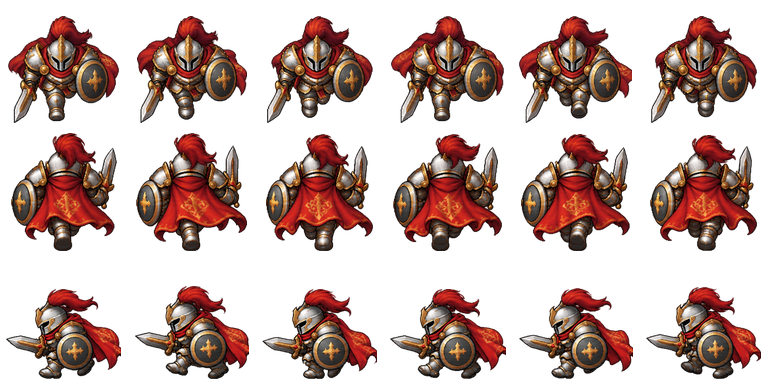
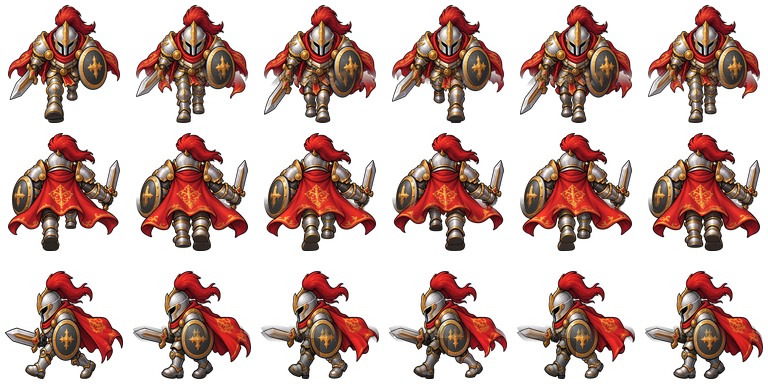
5스테이지 보스 변경

diff --git a/src/styles/rogueTd.css b/src/styles/rogueTd.css
@@ -352,8 +352,7 @@ body {
   transform: translateY(-40%);
 }
 
-/* Stage 5 uses a purpose-built directional sheet. The generated poses do not
-   form a continuous gait, so each direction keeps its stable first pose. */
+/* Stage 5 keeps one stable pose per direction until its walk art is finalized. */
 .monsterSprite.bossStage05Sprite {
   background-size: 600% 300%;
   animation: none;
@@ -364,19 +363,19 @@ body {
 .monsterSprite.bossStage05Sprite.move-left,
 .monsterSprite.bossStage05Sprite.move-right { --boss-stage05-row: 100%; }
 .monsterSprite.bossStage05Sprite.move-down {
-  transform: translateY(-40%) scale(1.04);
+  transform: translateY(-40%) scale(1.08);
   transform-origin: center bottom;
 }
 .monsterSprite.bossStage05Sprite.move-up {
-  transform: translateY(-40%) scale(0.97);
+  transform: translateY(-40%) scale(1.08);
   transform-origin: center bottom;
 }
 .monsterSprite.bossStage05Sprite.move-left {
-  transform: translateY(-40%) scale(1.14);
+  transform: translateY(-40%) scale(1.08);
   transform-origin: center bottom;
 }
 .monsterSprite.bossStage05Sprite.move-right {
-  transform: translateY(-40%) scale(-1.14, 1.14);
+  transform: translateY(-40%) scale(-1.08, 1.08);
   transform-origin: center bottom;
 }
 

diff --git a/scripts/build_stage05_walk_sprite.py b/scripts/build_stage05_walk_sprite.py
@@ -10,13 +10,44 @@ from PIL import Image
 ROOT = Path(__file__).resolve().parents[1]
 SOURCE_DIR = ROOT / "art_sources" / "images"
 OUTPUT = ROOT / "src" / "images" / "boss-stage05-walk.png"
-SOURCES = (
-    "boss_stage05_down.png",
-    "boss_stage05_up.png",
-    "boss_stage05_left.png",
+ROWS = (
+    (
+        "poses",
+        (
+            "boss_stage05_down_right_max.png",
+            "boss_stage05_down_right_mid.png",
+            "boss_stage05_down_left_mid.png",
+            "boss_stage05_down_left_max.png",
+            "boss_stage05_down_left_mid.png",
+            "boss_stage05_down_right_mid.png",
+        ),
+    ),
+    (
+        "poses",
+        (
+            "boss_stage05_up_right_max.png",
+            "boss_stage05_up_right_mid.png",
+            "boss_stage05_up_left_mid.png",
+            "boss_stage05_up_left_max.png",
+            "boss_stage05_up_left_mid.png",
+            "boss_stage05_up_right_mid.png",
+        ),
+    ),
+    (
+        "poses",
+        (
+            "boss_stage05_left_right_max.png",
+            "boss_stage05_left_right_mid.png",
+            "boss_stage05_left_left_mid.png",
+            "boss_stage05_left_left_max.png",
+            "boss_stage05_left_left_mid.png",
+            "boss_stage05_left_right_mid.png",
+        ),
+    ),
 )
 FRAME_SIZE = 128
 FRAME_COUNT = 6
+ROW_TARGET_SIZES = ((112, 118), (112, 118), (118, 108))
 
 
 def alpha_bbox(image: Image.Image) -> tuple[int, int, int, int]:
@@ -60,46 +91,95 @@ def keep_largest_alpha_component(image: Image.Image) -> Image.Image:
     return Image.fromarray(pixels, "RGBA")
 
 
+def extract_sprite(image: Image.Image) -> Image.Image:
+    cleaned = keep_largest_alpha_component(image.convert("RGBA"))
+    return cleaned.crop(alpha_bbox(cleaned))
+
+
+def load_pose_row(source_names: tuple[str, ...]) -> list[Image.Image]:
+    return [extract_sprite(Image.open(SOURCE_DIR / source_name)) for source_name in source_names]
+
+
+def load_strip_row(source_name: str) -> list[Image.Image]:
+    source = Image.open(SOURCE_DIR / source_name).convert("RGBA")
+    if source.width % FRAME_COUNT != 0:
+        raise ValueError(f"{source_name} width is not divisible by {FRAME_COUNT}")
+    source_frame_width = source.width // FRAME_COUNT
+    return [
+        extract_sprite(source.crop((
+            index * source_frame_width,
+            0,
+            (index + 1) * source_frame_width,
+            source.height,
+        )))
+        for index in range(FRAME_COUNT)
+    ]
+
+
+def normalize_pose(sprite: Image.Image, target_size: tuple[int, int]) -> Image.Image:
+    """Normalize independently generated poses to one fixed silhouette box."""
+    normalized = sprite.resize(target_size, Image.Resampling.LANCZOS)
+    frame = Image.new("RGBA", (FRAME_SIZE, FRAME_SIZE))
+    x = (FRAME_SIZE - normalized.width) // 2
+    y = 123 - normalized.height
+    frame.alpha_composite(normalized, (x, y))
+    return frame
+
+
+def lock_upper_body(row: list[Image.Image]) -> list[Image.Image]:
+    """Keep one torso/equipment rendering while retaining each pose's legs."""
+    base = row[0]
+    mask = Image.new("L", (FRAME_SIZE, FRAME_SIZE))
+    pixels = mask.load()
+    fade_start, fade_end = 68, 86
+    for y in range(FRAME_SIZE):
+        value = 255 if y <= fade_start else 0 if y >= fade_end else round(
+            255 * (fade_end - y) / (fade_end - fade_start)
+        )
+        for x in range(FRAME_SIZE):
+            pixels[x, y] = value
+    return [Image.composite(base, pose, mask) for pose in row]
+
+
+def emphasize_side_leg_swap(row: list[Image.Image]) -> list[Image.Image]:
+    """Use depth shading to show the far leg leading during the second half."""
+    adjusted: list[Image.Image] = []
+    for frame_index, frame in enumerate(row):
+        if frame_index not in (2, 3, 4):
+            adjusted.append(frame)
+            continue
+        pixels = np.asarray(frame).copy()
+        for y in range(82, FRAME_SIZE):
+            for x in range(FRAME_SIZE):
+                if pixels[y, x, 3] == 0:
+                    continue
+                factor = 0.72 if x < FRAME_SIZE // 2 else 1.12
+                pixels[y, x, :3] = np.clip(pixels[y, x, :3] * factor, 0, 255)
+        adjusted.append(Image.fromarray(pixels.astype(np.uint8), "RGBA"))
+    return adjusted
+
+
 def main() -> None:
     rows: list[list[Image.Image]] = []
-    sprites: list[Image.Image] = []
-
-    for source_name in SOURCES:
-        source = Image.open(SOURCE_DIR / source_name).convert("RGBA")
-        if source.width % FRAME_COUNT != 0:
-            raise ValueError(f"{source_name} width is not divisible by {FRAME_COUNT}")
-        source_frame_width = source.width // FRAME_COUNT
-        row: list[Image.Image] = []
-        for index in range(FRAME_COUNT):
-            frame = source.crop((
-                index * source_frame_width,
-                0,
-                (index + 1) * source_frame_width,
-                source.height,
-            ))
-            cleaned_frame = keep_largest_alpha_component(frame)
-            sprite = cleaned_frame.crop(alpha_bbox(cleaned_frame))
-            row.append(sprite)
-            sprites.append(sprite)
+    for source_type, source_value in ROWS:
+        row = (
+            load_pose_row(source_value)
+            if source_type == "poses"
+            else load_strip_row(source_value)
+        )
         rows.append(row)
 
-    # One scale for every direction prevents visible breathing or size changes.
-    scale = min(
-        118 / max(sprite.width for sprite in sprites),
-        118 / max(sprite.height for sprite in sprites),
-    )
+    normalized_rows: list[list[Image.Image]] = []
+    for row_index, row in enumerate(rows):
+        normalized = [normalize_pose(sprite, ROW_TARGET_SIZES[row_index]) for sprite in row]
+        locked = lock_upper_body(normalized)
+        normalized_rows.append(emphasize_side_leg_swap(locked) if row_index == 2 else locked)
+
     sheet = Image.new("RGBA", (FRAME_SIZE * FRAME_COUNT, FRAME_SIZE * len(rows)))
 
-    for row_index, row in enumerate(rows):
-        for frame_index, sprite in enumerate(row):
-            size = (
-                max(1, round(sprite.width * scale)),
-                max(1, round(sprite.height * scale)),
-            )
-            resized = sprite.resize(size, Image.Resampling.LANCZOS)
-            x = frame_index * FRAME_SIZE + (FRAME_SIZE - resized.width) // 2
-            y = row_index * FRAME_SIZE + 123 - resized.height
-            sheet.alpha_composite(resized, (x, y))
+    for row_index, row in enumerate(normalized_rows):
+        for frame_index, frame in enumerate(row):
+            sheet.alpha_composite(frame, (frame_index * FRAME_SIZE, row_index * FRAME_SIZE))
 
     sheet.save(OUTPUT, optimize=True)
     print(f"created {OUTPUT.name}: {sheet.width}x{sheet.height}")

diff --git a/art_sources/README.md b/art_sources/README.md
@@ -8,6 +8,6 @@ Run `scripts/normalize_boss_sprites.py` after replacing one of the boss source s
 
 The other scripts in `scripts/` rebuild the stage 5 boss and regular monster sheets. Keep the source filenames referenced by those scripts when replacing local artwork:
 
-- `build_stage05_walk_sprite.py`: stage 5 boss directional strips
+- `build_stage05_walk_sprite.py`: stage 5 boss direction-specific key poses
 - `build_enemy_human_sprite.py`: human monster sheet
 - `build_enemy_land_sprite.py`: land monster directional strips
